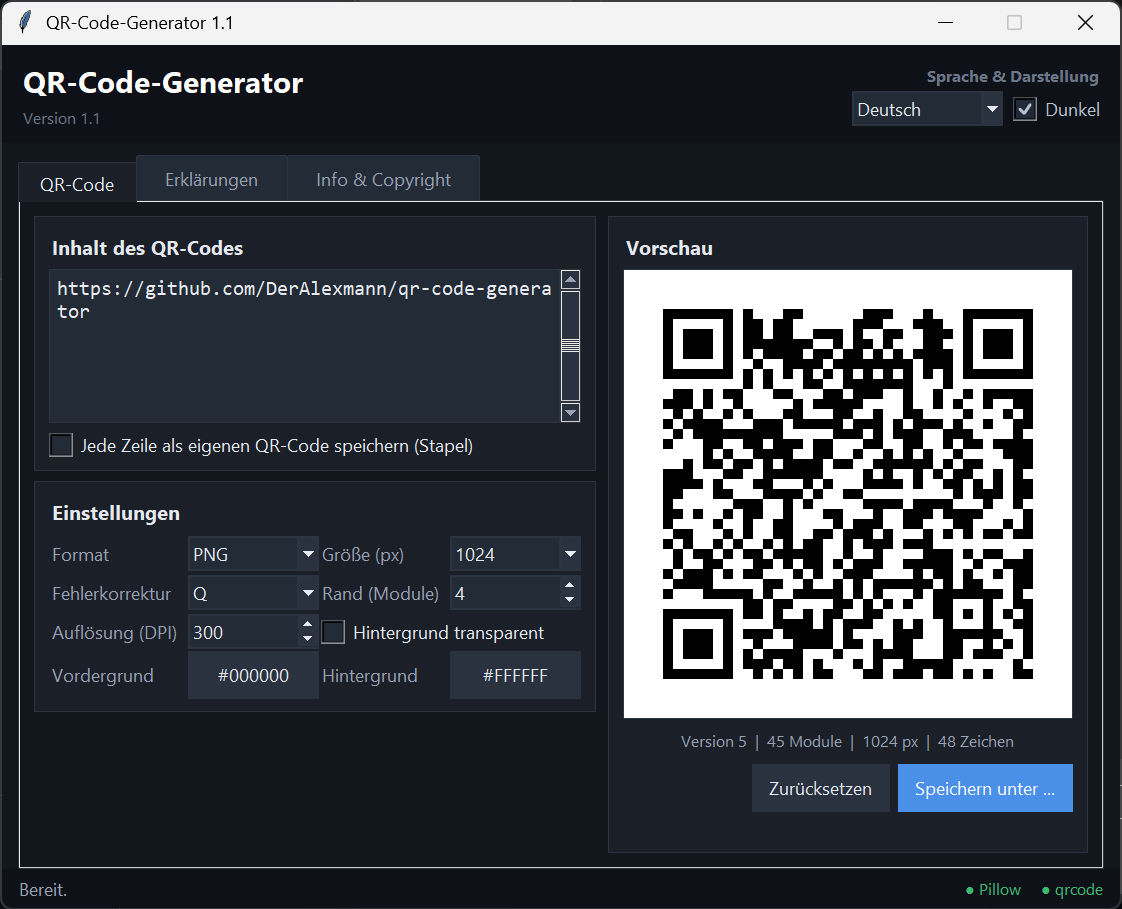
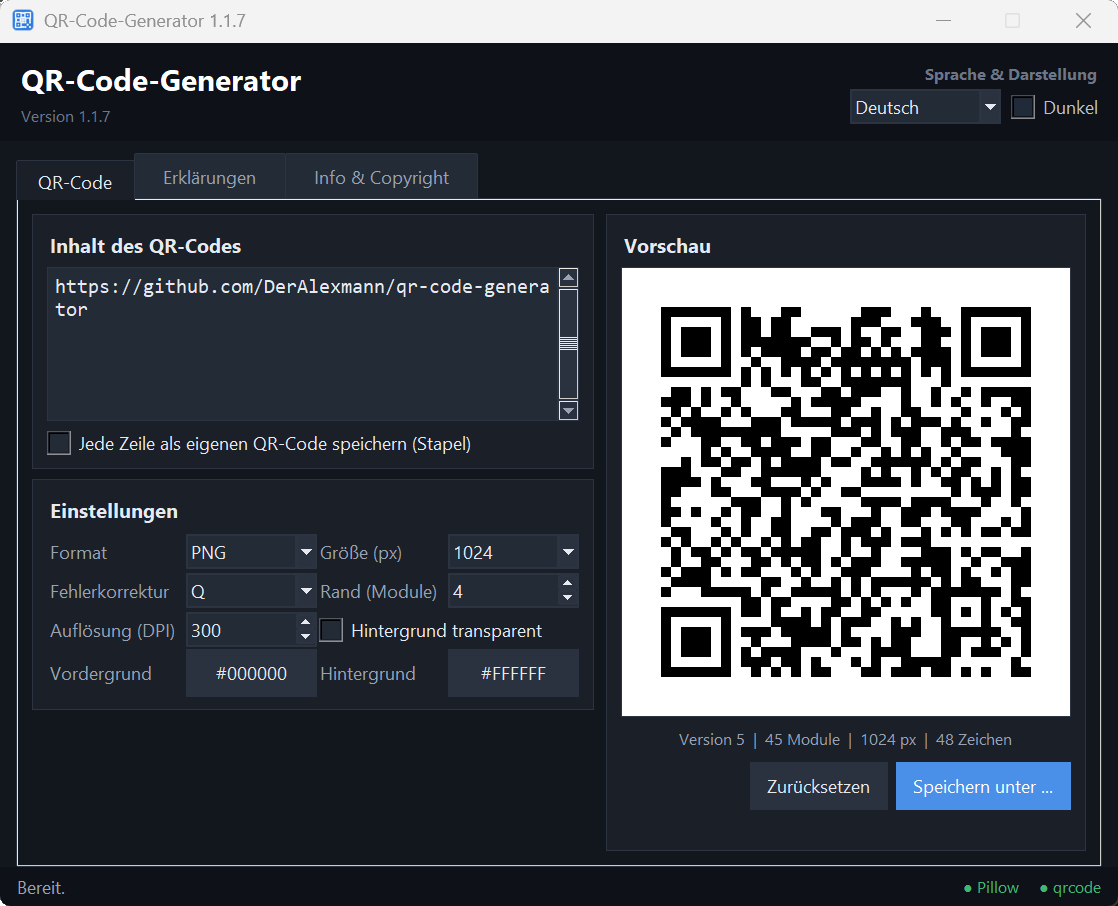
Keine Verweise mehr auf andere Programme
Programm, Starter, Linter-Konfiguration und Testvorbereitung nannten an zehn
Stellen das Werkzeug, an dem sich Farbschema, Sprachumschaltung und Aufbau
ursprünglich orientiert haben. Eine davon stand im Reiter "Info &
Copyright", also vor Augen jedes Anwenders.

Entschieden: der Hinweis entfaellt ersatzlos. Woher die Farbauswahl eines
Programms stammt, hat mit seiner Benutzung nichts zu tun. Die Kommentare
erklaeren die Sache jetzt aus sich heraus.

Der deutsche Satz war zugleich der Schluessel der Uebersetzungstabelle -
Anzeige, Schluessel und englische Fassung muessen deshalb gemeinsam
wandern, sonst faellt die englische Oberflaeche stillschweigend auf Deutsch
zurueck. Der Uebersetzungstest haette es gemeldet.

Die vier Bildschirmfotos sind neu aufgenommen: ohne den Satz, mit dem neuen
Programmsymbol in der Titelleiste statt der Tk-Feder und mit der aktuellen
Versionsnummer in der Kopfzeile. Aufgenommen wurde ueber die
Programmschnittstelle, nicht mit nachgeahmten Klicks; vor jeder Aufnahme
wurde geprueft, dass kein fremdes Fenster im Bild liegt. Die abgerundeten
Ecken sind durchsichtig, damit die Bilder auf hellem wie dunklem Untergrund
sauber stehen.

diff --git a/qr_generator.py b/qr_generator.py
@@ -4,9 +4,6 @@ QR-Code-Generator 1.1.6 - QR-Codes aus Text erzeugen und als Bild speichern
 Erzeugt QR-Codes fuer beliebige textbasierte Inhalte (Text, URLs, WLAN-Zugaenge,
 Kontaktdaten, ...) und speichert sie in verschiedenen Bildformaten und Groessen.
 
-Farbschema, Sprachumschaltung und Aufbau folgen der Bild-Toolbox, damit sich
-beide Programme gleich anfuehlen.
-
 Zwei Betriebsarten in einer Datei:
   * Ohne Argumente  -> grafische Oberflaeche (Tkinter) mit Live-Vorschau
   * Mit Argumenten  -> Kommandozeile, auch fuer Stapelverarbeitung
@@ -62,8 +59,7 @@ SYMBOLDATEI = "qr_code_generator.ico"
 # --------------------------------------------------------------------------
 # Farbschemata
 #
-# Die Paletten stammen aus der Bild-Toolbox, damit beide Programme gleich
-# aussehen. apply_theme() schreibt die Werte der gewaehlten Palette in die
+# apply_theme() schreibt die Werte der gewaehlten Palette in die
 # Modulvariablen - der uebrige Code benutzt einfach BG, CARD, TEXT ... und
 # muss vom Umschalten nichts wissen. Ein eigenes Schema entsteht durch eine
 # weitere Palette mit denselben Namen.
@@ -161,10 +157,10 @@ FONT_MONO = ("Consolas", 10)
 # --------------------------------------------------------------------------
 # Sprachumschaltung
 #
-# Wie in der Bild-Toolbox ist Deutsch die Quellsprache: im Code steht der
-# deutsche Text, _("...") sucht ihn zur Laufzeit in der Sprachtabelle
-# TRANSLATIONS (ganz unten in dieser Datei). Dort ist auch beschrieben, wie
-# eine weitere Sprache dazukommt.
+# Deutsch ist die Quellsprache: im Code steht der deutsche Text, _("...")
+# sucht ihn zur Laufzeit in der Sprachtabelle TRANSLATIONS (ganz unten in
+# dieser Datei). Dort ist auch beschrieben, wie eine weitere Sprache
+# dazukommt.
 # --------------------------------------------------------------------------
 
 SOURCE_LANGUAGE = "de"
@@ -948,10 +944,10 @@ def cli_main(args: argparse.Namespace) -> int:
 # --------------------------------------------------------------------------
 # Wiederverwendbare Widgets
 #
-# Aufbau und Benennung entsprechen der Bild-Toolbox. Zusaetzlich merkt sich
-# faerben() zu jedem Widget, welche Rolle seine Farben haben ("CARD", "TEXT",
-# ...). Ein Wechsel des Farbschemas faerbt die vorhandenen Widgets dadurch nur
-# um, statt die Oberflaeche neu aufzubauen - nichts blinkt, nichts springt.
+# faerben() merkt sich zu jedem Widget, welche Rolle seine Farben haben
+# ("CARD", "TEXT", ...). Ein Wechsel des Farbschemas faerbt die vorhandenen
+# Widgets dadurch nur um, statt die Oberflaeche neu aufzubauen - nichts
+# blinkt, nichts springt.
 # --------------------------------------------------------------------------
 
 # Wird von widgets_bereitstellen() belegt, sobald Tkinter geladen ist.
@@ -1816,8 +1812,7 @@ class QRApp:
         card_text(karte, f"{PROGRAMM} {VERSION}", rolle="TEXT", font=FONT_H2)
         card_text(karte, _(
             "Erzeugt QR-Codes aus beliebigen textbasierten Inhalten und speichert sie als "
-            "Bilddatei - in zehn Formaten und in jeder gewünschten Größe. Farbschema, "
-            "Sprachumschaltung und Aufbau folgen der Bild-Toolbox.\n\n"
+            "Bilddatei - in zehn Formaten und in jeder gewünschten Größe.\n\n"
             "Das gesamte Programm steckt in einer einzigen Datei und läuft wahlweise mit "
             "dieser Oberfläche oder auf der Kommandozeile.\n\n"
             "Tastatur: Strg+S speichert den angezeigten Code."))
@@ -2563,14 +2558,12 @@ TRANSLATIONS = {
         # --- Reiter 3: Info & Copyright -----------------------------------
         "Über dieses Programm": "About this program",
         "Erzeugt QR-Codes aus beliebigen textbasierten Inhalten und speichert sie als "
-        "Bilddatei - in zehn Formaten und in jeder gewünschten Größe. Farbschema, "
-        "Sprachumschaltung und Aufbau folgen der Bild-Toolbox.\n\n"
+        "Bilddatei - in zehn Formaten und in jeder gewünschten Größe.\n\n"
         "Das gesamte Programm steckt in einer einzigen Datei und läuft wahlweise mit "
         "dieser Oberfläche oder auf der Kommandozeile.\n\n"
         "Tastatur: Strg+S speichert den angezeigten Code.":
             "Creates QR codes from any text-based content and saves them as an image "
-            "file - in ten formats and at any size you like. Colour scheme, language "
-            "switching and layout follow the Bild-Toolbox.\n\n"
+            "file - in ten formats and at any size you like.\n\n"
             "The whole program lives in a single file and runs either with this window "
             "or on the command line.\n\n"
             "Keyboard: Ctrl+S saves the code on display.",

diff --git a/tests/conftest.py b/tests/conftest.py
@@ -22,10 +22,9 @@ def qr():
     """Der geladene QR-Code-Generator als Modul."""
     assert SCRIPT.is_file(), f"Skript nicht gefunden: {SCRIPT}"
 
-    # Der Loader wird ausdruecklich mitgegeben - dieselbe Vorsichtsmassnahme
-    # wie in der Bild-Toolbox. Sie kostet nichts und haelt den Testaufbau
-    # unabhaengig davon, welche Endungen Python auf der jeweiligen Plattform
-    # als Quelldatei kennt.
+    # Der Loader wird ausdruecklich mitgegeben. Das kostet nichts und haelt
+    # den Testaufbau unabhaengig davon, welche Endungen Python auf der
+    # jeweiligen Plattform als Quelldatei kennt.
     loader = SourceFileLoader("qr_generator", str(SCRIPT))
     spec = importlib.util.spec_from_file_location("qr_generator", SCRIPT, loader=loader)
     assert spec is not None and spec.loader is not None, (
